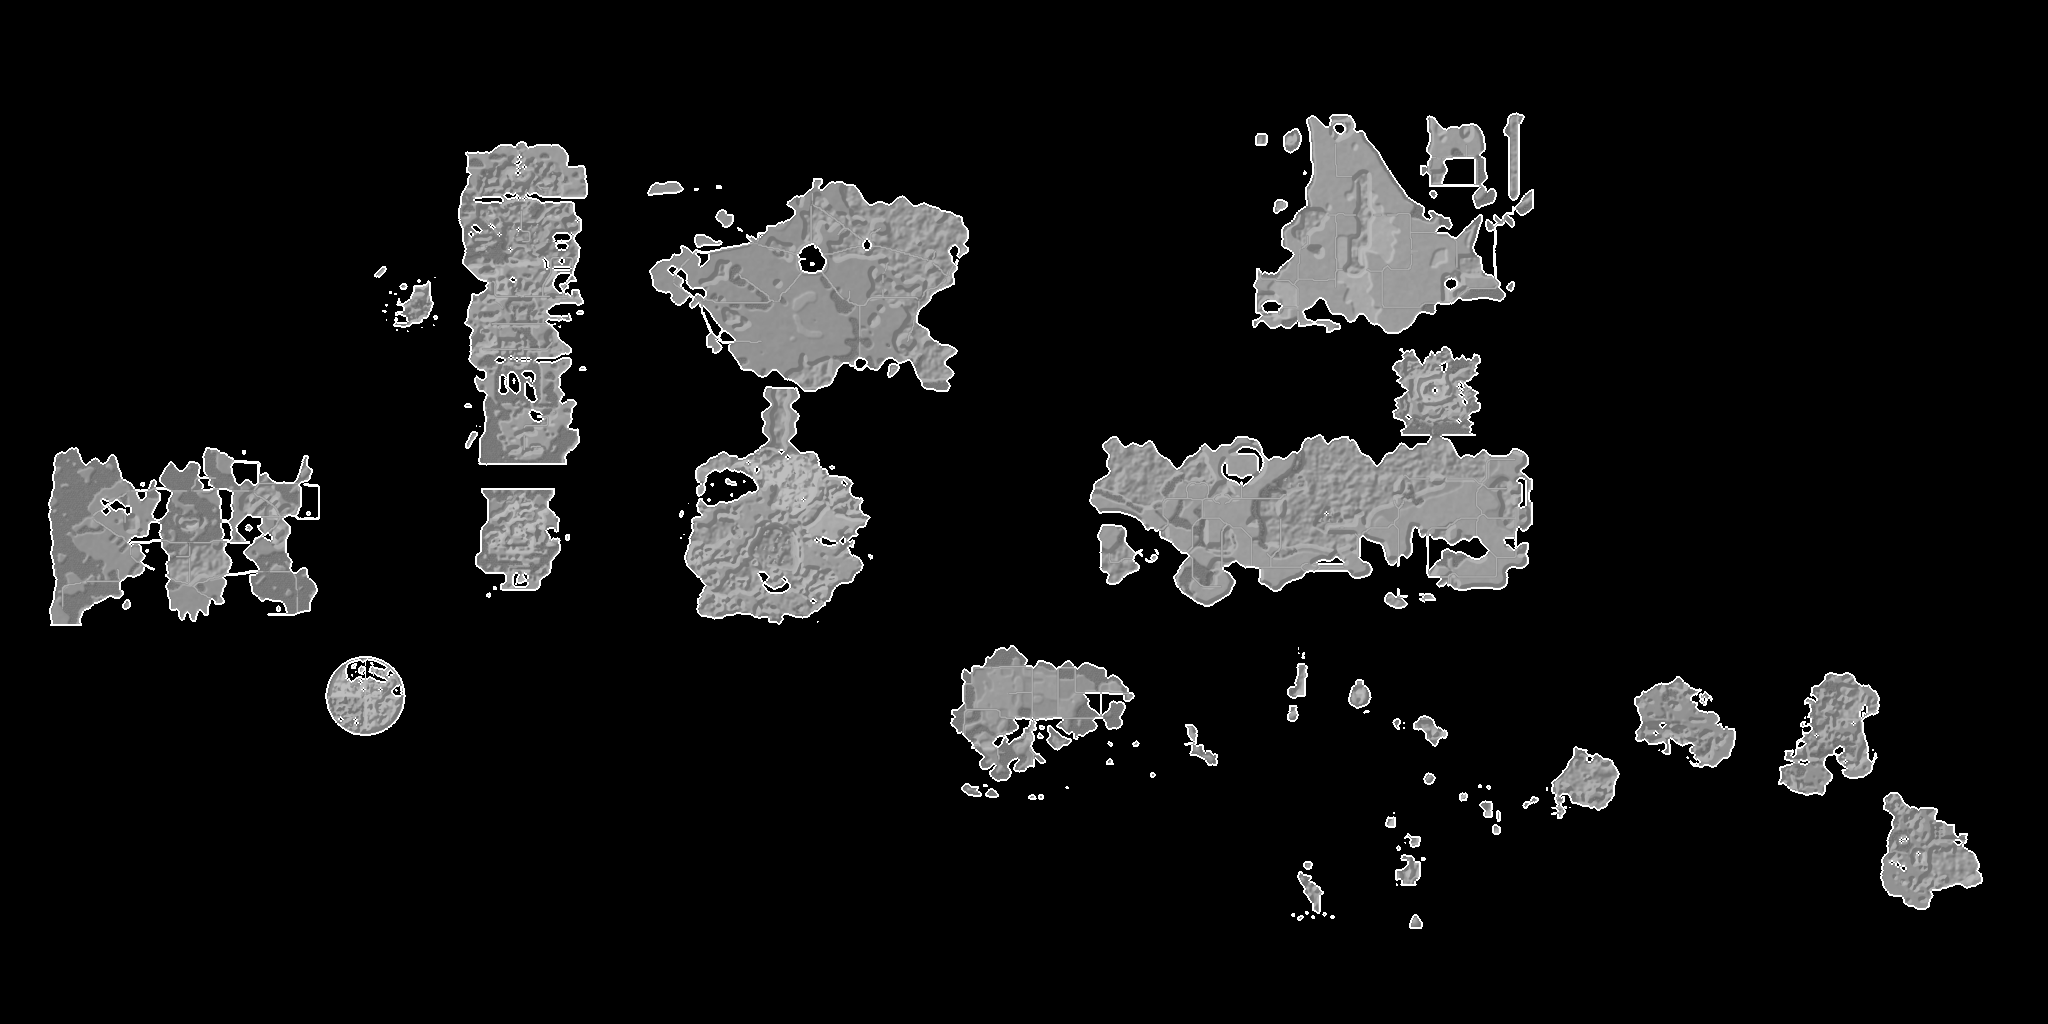
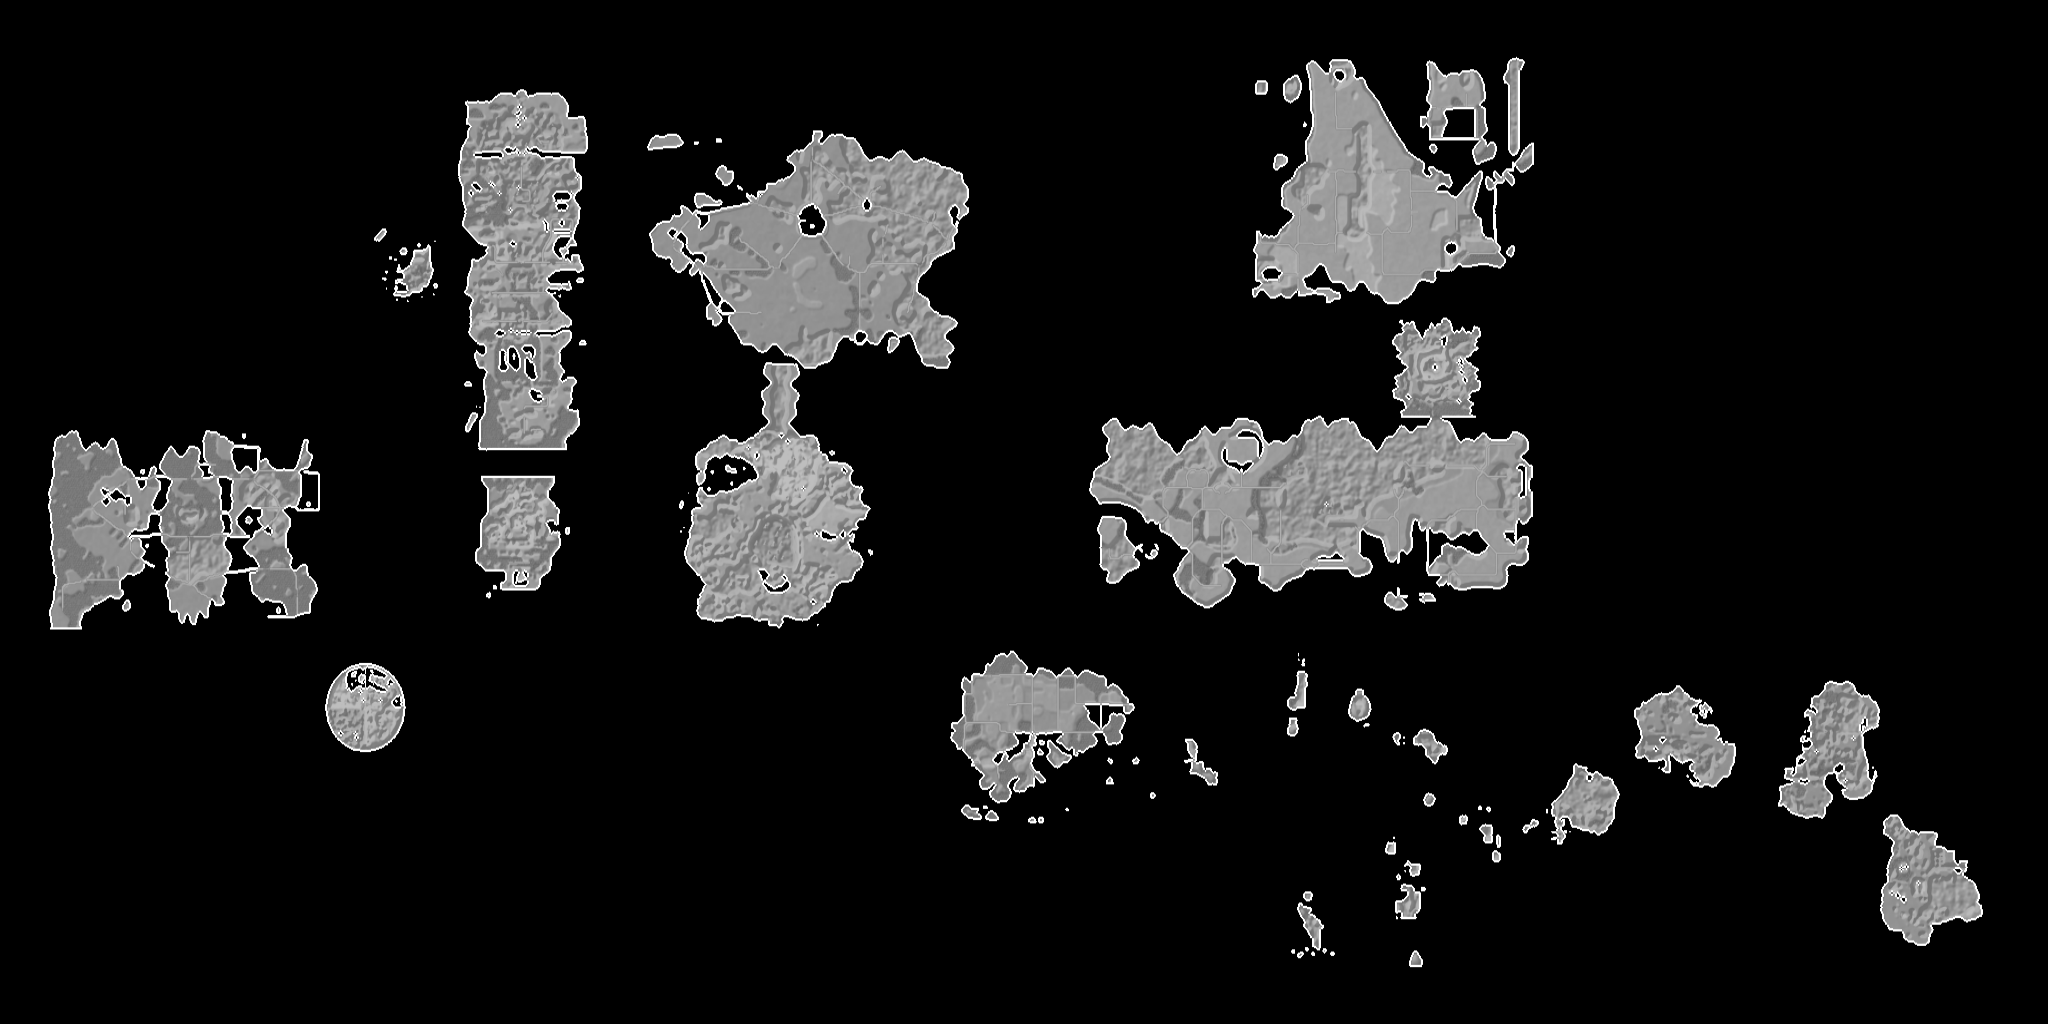
Globe: stretch the world north-south to fill the polar caps, and give the sea a faint texture (mock)
The atlas laid flat on the sphere only reached 70N-73S, leaving an empty sea cap at each pole (the north one under
the landing's trainer). The globe now stretches it uniformly north-south so the land runs 80N-80S: every region
keeps its place against the others, longitude is unchanged, and the flat maps, guesses and scoring don't change.
latOf/uvOf (src/lib/globe/geo.ts) carry the stretch, so pins, names, peaks, lights, the era map and fly-to targets
follow the land.

- globe-mask.png/.webp regenerated by the new scripts/globe/gen-mask.ts (the flat mask, resampled per row)
- globe-gens.png regenerated (scripts/globe/gen-map.ts)
- the landing's posters (hub-globe*.webp) and the Lab's globe stills redrawn from the scene
- the sea: lighter shallows round the coasts and faint drifting ripple lines, in both themes; light mode's sea
  takes a lavender wash instead of plain white

diff --git a/src/components/globe/world-look.ts b/src/components/globe/world-look.ts
@@ -68,6 +68,7 @@ export function createWorldLook(o: WorldLookOptions) {
   const U = {
     map: { value: tex }, gens: { value: blank as THREE.Texture }, hasGens: { value: 0 }, era: { value: LAST_GEN },
     time: { value: 0 }, land: { value: C() }, coast: { value: C() }, grid: { value: C() }, rim: { value: C() }, sea: { value: C() },
+    seaInk: { value: C() }, seaK: { value: 0 }, shoal: { value: C() },
     spec: { value: C() }, dusk: { value: new THREE.Color(1, 0.62, 0.36) }, nightTint: { value: new THREE.Color(0.72, 0.78, 1.15) },
     nightLevel: { value: 0.34 }, light: { value: 0 }, uSun: { value: sunObj }, uCam: { value: camObj },
     uFocus: { value: new THREE.Vector3(0, 1, 0) }, uFocusK: { value: 0 }, uWorldK: { value: 0 }, uHot: { value: C() },
@@ -78,7 +79,7 @@ export function createWorldLook(o: WorldLookOptions) {
     vertexShader: `varying vec2 vUv; varying vec3 vP;
       void main(){ vUv=uv; vP=position; gl_Position=projectionMatrix*modelViewMatrix*vec4(position,1.); }`,
     fragmentShader: `uniform sampler2D map; uniform sampler2D gens; uniform float hasGens; uniform float era; uniform float time;
-      uniform vec3 land; uniform vec3 coast; uniform vec3 grid; uniform vec3 rim; uniform vec3 sea; uniform vec3 spec; uniform vec3 dusk; uniform vec3 nightTint;
+      uniform vec3 land; uniform vec3 coast; uniform vec3 grid; uniform vec3 rim; uniform vec3 sea; uniform vec3 seaInk; uniform float seaK; uniform vec3 shoal; uniform vec3 spec; uniform vec3 dusk; uniform vec3 nightTint;
       uniform float nightLevel; uniform float light; uniform vec3 uSun; uniform vec3 uCam;
       #ifdef FOCUS
       uniform vec3 uFocus; uniform float uFocusK; uniform float uWorldK; uniform vec3 uHot;
@@ -96,7 +97,16 @@ export function createWorldLook(o: WorldLookOptions) {
         float g=gridf(vUv, vec2(36.,18.))*(1.-l*.6);
         float f=pow(max(1.-max(dot(N,V),0.),0.),2.2);
         float band=.96+.04*sin(vUv.y*900.+time*2.);
-        vec3 col=sea;
+        // The open sea, so it reads as water: lighter shallows round the coasts (the mask, blurred by its mipmaps) and
+        // faint drifting ripple lines (contours of a slow noise, on the sphere itself, so no seam and no pinch at the
+        // poles). Both fade under the land.
+        float near=texture2D(map,vUv,4.).r;
+        float sh=smoothstep(.0,.3,near);
+        float rn=vnoise(vP*4.2+vec3(0.,time*.015,0.))+.5*vnoise(vP*9.5+vec3(time*.02,0.,0.));
+        float rc=rn*5., rw=fwidth(rc);
+        float lines=1.-smoothstep(rw*.5,rw*1.5+.02,abs(fract(rc+.5)-.5));
+        vec3 col=mix(sea, shoal, sh*.55);
+        col=mix(col, seaInk, seaK*(lines*.9+.25*smoothstep(.25,1.2,rn))*(1.-sh*.5));
         col=mix(col, land*(.55+.75*m)*band, l*.92);
         col=mix(col, coast, c*.9);
         col=mix(col, land, l0*(1.-vis)*.09);
@@ -216,6 +226,12 @@ export function createWorldLook(o: WorldLookOptions) {
     const screen = tokenColor("--screen", C()), primary = tokenColor("--primary", C());
     U.light.value = dark ? 0 : 1;
     tokenColor("--card", U.sea.value); U.land.value.copy(screen); tokenColor("--foreground", U.coast.value); tokenColor("--border", U.grid.value);
+    // The sea's texture: by night a faint lift towards the land's violet, by day a lavender wash on the white card.
+    if (!dark) U.sea.value.lerp(U.grid.value, 0.35);
+    U.seaInk.value.copy(screen);
+    U.seaK.value = 0.045;
+    U.shoal.value.copy(U.sea.value).lerp(screen, dark ? 0.1 : 0.06);
+    if (!dark) U.shoal.value.lerp(new THREE.Color(1, 1, 1), 0.5);
     if (dark) U.rim.value.copy(screen); else hex(U.rim.value, 0xffffff);
     U.spec.value.copy(dark ? new THREE.Color(0.85, 0.82, 1) : new THREE.Color(1, 1, 1));
     // The night side stays readable: an era's new region may lie on it.

diff --git a/src/lib/globe/geo.ts b/src/lib/globe/geo.ts
@@ -1,15 +1,39 @@
 /**
  * The globe's coordinates: atlas pixels (src: public/atlas/atlas.json, the
- * same space as the World Atlas and geo.json's world map) to degrees. The
- * equirectangular globe texture is the atlas with sea padding above and
- * below, so a pixel's latitude counts that padding. Client-safe.
+ * same space as the World Atlas and geo.json's world map) to degrees. Client-safe.
+ *
+ * Laid flat on the sphere as is (the atlas with sea padding above and below, its frame at about 79°N–79°S), the
+ * land would only reach 70°N and 73°S, leaving an empty cap of sea round each pole, the north one right under the
+ * landing's trainer. So the globe stretches the atlas north–south, uniformly: the land runs from GLOBE_LAND_N to
+ * GLOBE_LAND_S. Every region keeps its place against the others (one straight scale of latitude, the same for every
+ * point), and longitude is unchanged. Only the globe uses this: the flat maps, the guesses and their scoring don't.
+ *
+ * Everything the globe puts on the world (the mask, the generation map, pins, names, peaks, lights, fly-to targets)
+ * goes through latOf / uvOf, so it all stays on the land.
  */
 
-export const lonOf = (x: number, W: number) => (x / W) * 360 - 180;
-export const latOf = (y: number, W: number, H: number) => 90 - ((y + (W / 2 - H) / 2) / (W / 2)) * 180;
+/** The land's extent on the atlas laid flat (the padded equirectangular texture): its northmost and southmost row. */
+export const ATLAS_LAND_N = 70.31;
+export const ATLAS_LAND_S = -73.3;
+/** Where the globe puts them (much further north, and Sinnoh's north coast pinches into slivers at the pole). */
+export const GLOBE_LAND_N = 80;
+export const GLOBE_LAND_S = -80;
 
-/** Texture coordinates (0..1, v down) of an atlas pixel on the padded globe texture. */
-export const uvOf = (x: number, y: number, W: number, H: number): [number, number] => [x / W, (y + (W / 2 - H) / 2) / (W / 2)];
+const K = (GLOBE_LAND_N - GLOBE_LAND_S) / (ATLAS_LAND_N - ATLAS_LAND_S);
+const B = GLOBE_LAND_N - K * ATLAS_LAND_N;
+
+/** The atlas laid flat (padded, unstretched): a pixel row's latitude. */
+export const flatLatOf = (y: number, W: number, H: number) => 90 - ((y + (W / 2 - H) / 2) / (W / 2)) * 180;
+/** A flat latitude, stretched onto the globe (the north–south stretch; past a pole only open sea, held at it). */
+export const stretchLat = (lat: number) => Math.max(-90, Math.min(90, K * lat + B));
+/** ...and back: the flat latitude a globe latitude came from. */
+export const unstretchLat = (lat: number) => (lat - B) / K;
+
+export const lonOf = (x: number, W: number) => (x / W) * 360 - 180;
+export const latOf = (y: number, W: number, H: number) => stretchLat(flatLatOf(y, W, H));
+
+/** Texture coordinates (0..1, v down) of an atlas pixel on the globe's equirectangular textures. */
+export const uvOf = (x: number, y: number, W: number, H: number): [number, number] => [x / W, (90 - latOf(y, W, H)) / 180];
 
 export interface AtlasRegion {
   name: string;

diff --git a/scripts/globe/gen-mask.ts b/scripts/globe/gen-mask.ts
@@ -1,0 +1,44 @@
+/**
+ * Builds the globe's land mask, public/geo/maps/globe-mask.png and its lossless twin globe-mask.webp (the landing's):
+ * the atlas mask laid flat (the land's shading and coastlines on the padded equirectangular texture, as first
+ * committed in b23f92f0), stretched north–south the way src/lib/globe/geo.ts puts the atlas on the globe (the land
+ * from GLOBE_LAND_N to GLOBE_LAND_S). Each row is resampled from the flat mask; columns (longitude) are unchanged.
+ *
+ *   npx tsx scripts/globe/gen-mask.ts
+ *
+ * Rerun it whenever the stretch in geo.ts changes (then scripts/globe/gen-map.ts too). It always starts from the flat
+ * mask, so running it twice changes nothing.
+ */
+import { execFileSync } from "node:child_process";
+import path from "node:path";
+import sharp from "sharp";
+import { unstretchLat } from "../../src/lib/globe/geo";
+
+/** The commit holding the flat (unstretched) mask. */
+const FLAT = "b23f92f0:public/geo/maps/globe-mask.png";
+
+const root = path.resolve(__dirname, "../..");
+const flat = execFileSync("git", ["show", FLAT], { cwd: root, maxBuffer: 64 << 20 });
+
+void (async () => {
+  const { data, info } = await sharp(flat).raw().toBuffer({ resolveWithObject: true });
+  const { width: W, height: H, channels: C } = info;
+  const out = Buffer.alloc(W * H * C);
+  for (let j = 0; j < H; j++) {
+    const lat = 90 - ((j + 0.5) / H) * 180;
+    // The flat row this globe row comes from (fractional: blended between its two neighbours).
+    const r = ((90 - unstretchLat(lat)) / 180) * H - 0.5;
+    const r0 = Math.floor(r), f = r - r0;
+    const row = (k: number) => (k >= 0 && k < H ? k : -1);
+    const a = row(r0), b = row(r0 + 1);
+    for (let i = 0; i < W * C; i++) {
+      const va = a < 0 ? 0 : data[a * W * C + i], vb = b < 0 ? 0 : data[b * W * C + i];
+      out[j * W * C + i] = Math.round(va * (1 - f) + vb * f);
+    }
+  }
+  const img = () => sharp(out, { raw: { width: W, height: H, channels: C } });
+  const png = path.join(root, "public/geo/maps/globe-mask.png"), webp = path.join(root, "public/geo/maps/globe-mask.webp");
+  const a = await img().png({ compressionLevel: 9 }).toFile(png);
+  const b = await img().webp({ lossless: true, effort: 6 }).toFile(webp);
+  console.log(`wrote ${path.relative(root, png)} (${a.size} bytes), ${path.relative(root, webp)} (${b.size} bytes)`);
+})();
